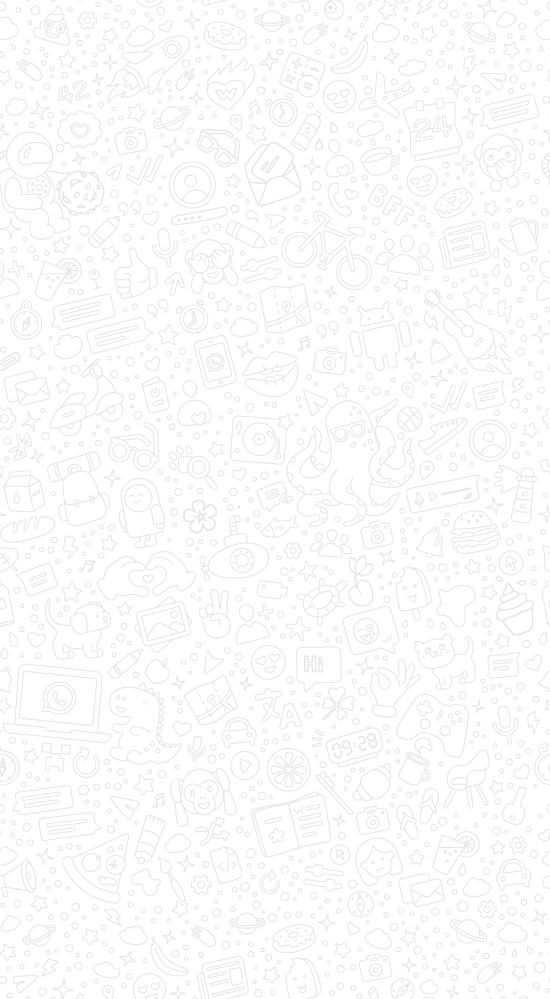
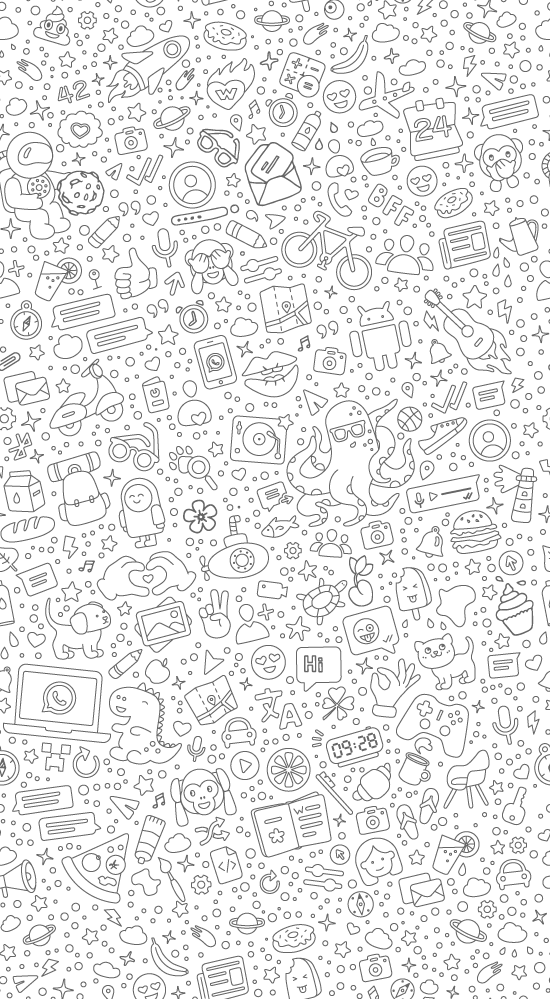
final details

Changed region(s): [[0.0, 0.0, 1.0, 1.0], [0.9891, 0.0, 1.0, 0.031]]

diff --git a/src/components/header/Header.jsx b/src/components/header/Header.jsx
@@ -25,7 +25,9 @@ export default function Header({
 
   return (
     <div className="bg-wapp-verde dark:bg-dark-fondo-claro p-4 md:hidden">
-      <h1 className="text-white text-center text-xl font-bold">ListaMaker</h1>
+      <h1 className="text-white text-center text-xl font-bold">
+        WhatsApp Listados
+      </h1>
       <div className="flex justify-between items-center">
         <div
           onClick={handleTema}

diff --git a/src/App.jsx b/src/App.jsx
@@ -63,6 +63,7 @@ function App() {
       }`}
       style={{
         backgroundImage: `url(${fondo})`,
+        backgroundBlendMode: "overlay",
         backgroundRepeat: "no-repeat",
         backgroundSize: "cover",
         backgroundPosition: "center",
